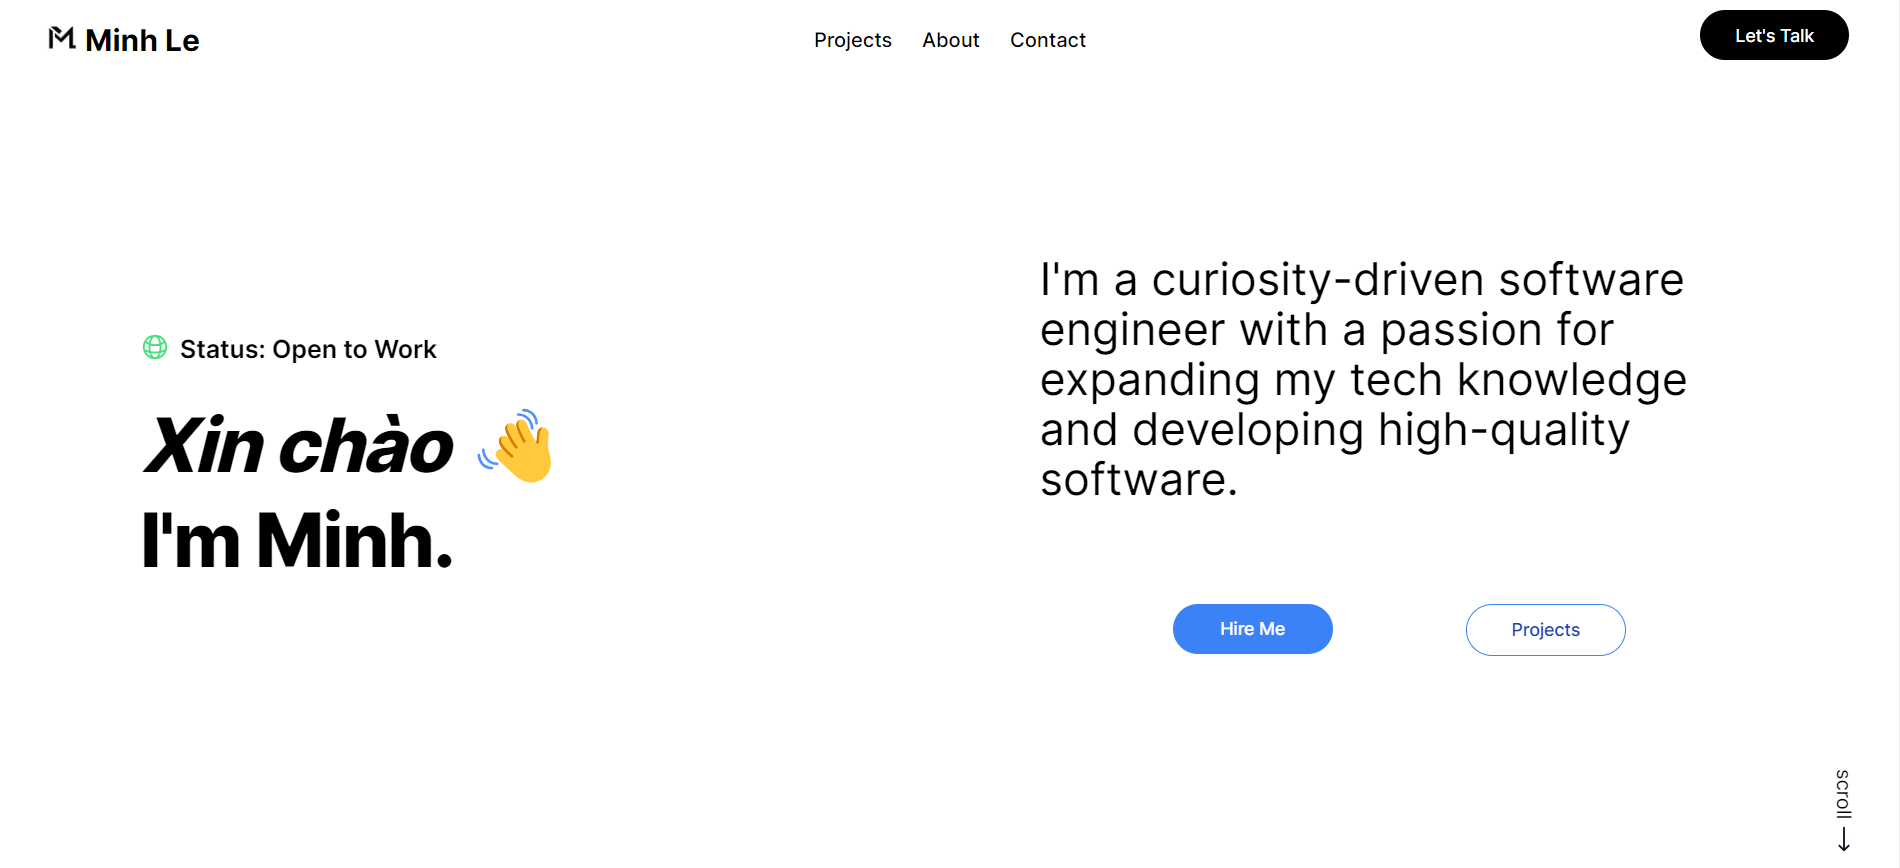
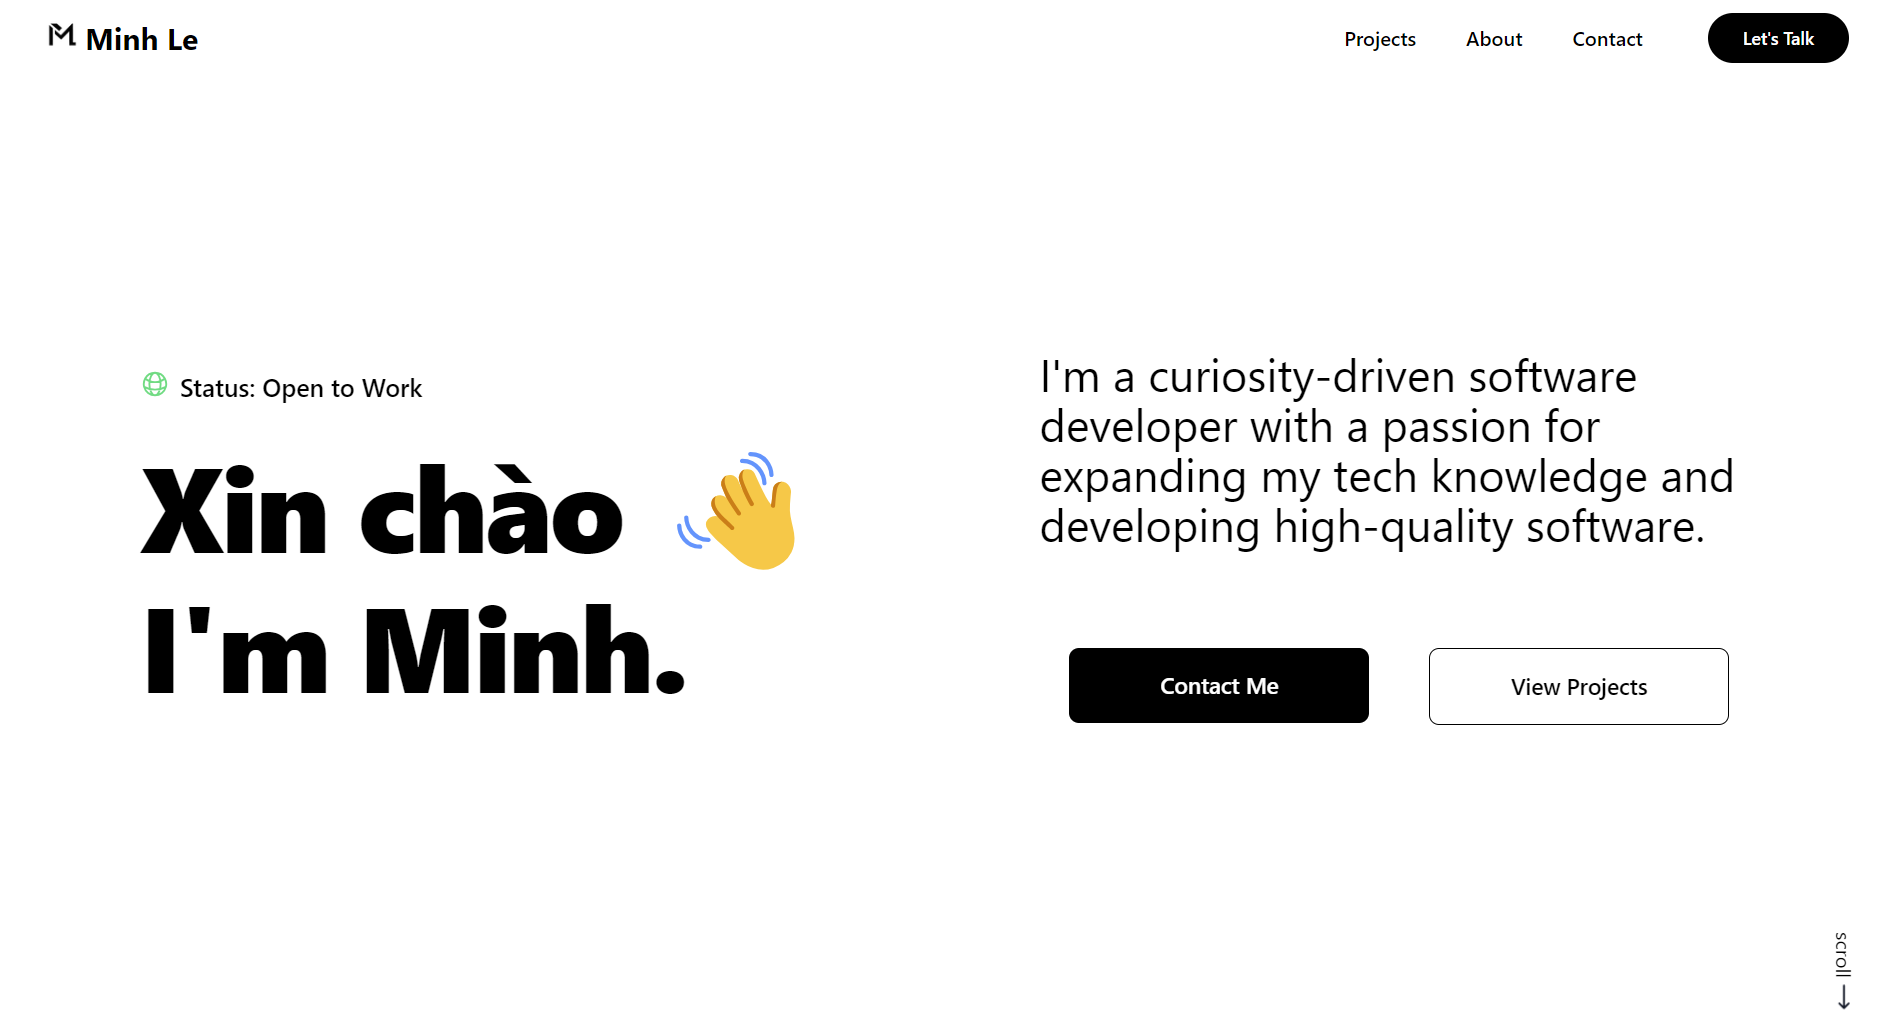
Update button styles

diff --git a/src/sections/HeroSection.tsx b/src/sections/HeroSection.tsx
@@ -31,11 +31,11 @@ function HeroSection() {
             expanding my tech knowledge and developing high-quality software.
           </p>
 
-          <div className='flex justify-evenly w-full'>
+          <div className='flex justify-around w-full'>
             <a href='#contact'>
               <button
                 type='button'
-                className='text-white bg-blue-500 hover:bg-blue-600 focus:outline-none focus:ring-4 focus:ring-blue-300 font-medium rounded-full text-sm px-5 py-2.5 text-center dark:bg-blue-600 dark:hover:bg-blue-700 dark:focus:ring-blue-800 min-w-32'
+                className='text-white bg-black hover:bg-gray-500 focus:outline-none focus:ring-4 focus:ring-gray-300 font-medium rounded-lg md:text-lg px-8 py-4 text-center dark:bg-white dark:hover:bg-gray-300 dark:focus:ring-gray-100 w-32 md:w-60'
               >
                 Contact Me
               </button>
@@ -43,9 +43,9 @@ function HeroSection() {
             <a href='#projects'>
               <button
                 type='button'
-                className='py-2.5 px-5 text-sm font-medium text-blue-800 focus:outline-none bg-white rounded-full border border-blue-500 hover:bg-gray-100 hover:boder-blue-700 focus:ring-4 focus:ring-blue-300 focus:z-10 dark:bg-black dark:text-white dark:border-white dark:hover:text-white dark:hover:bg-gray-700 min-w-32'
+                className='py-4 px-8 md:text-lg font-medium text-black focus:outline-none bg-white rounded-lg border border-black hover:bg-gray-100 hover:border-gray-700 focus:ring-4 focus:ring-gray-300 focus:z-10 dark:bg-black dark:text-white dark:border-white dark:hover:text-white dark:hover:bg-gray-700 w-32 md:w-60'
               >
-                Projects
+                View Projects
               </button>
             </a>
           </div>
